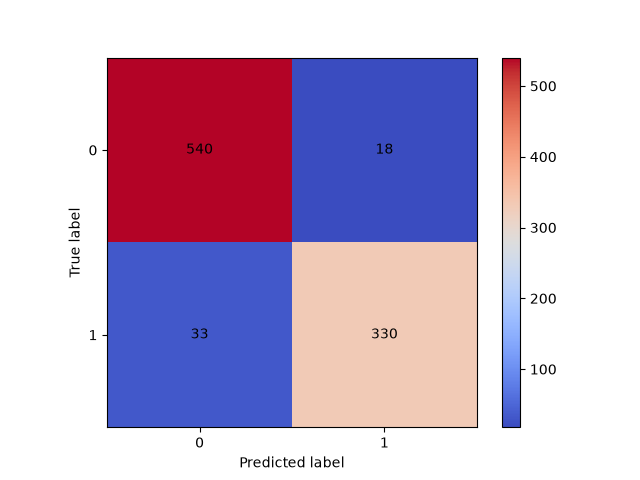
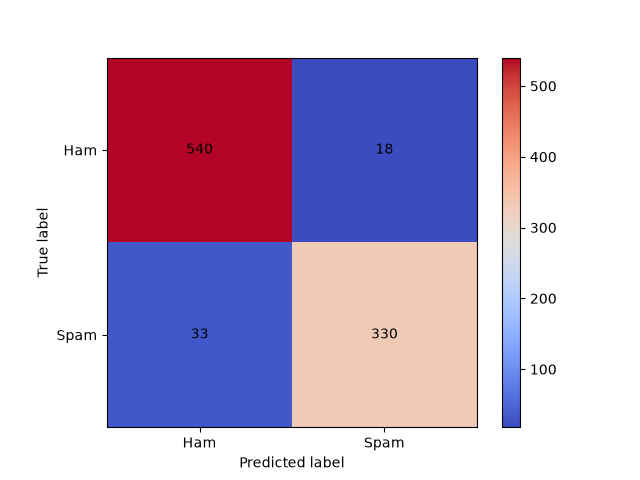
Added display_labels for ConfusionMatrixDisplay

diff --git a/assignments_03/project_03.py b/assignments_03/project_03.py
@@ -308,7 +308,7 @@ model_report(lr_pca, X_test_pca, y_test)
 
 y_pred = rf.predict(X_test)
 cm = confusion_matrix(y_test, y_pred)
-cmd = ConfusionMatrixDisplay(cm)
+cmd = ConfusionMatrixDisplay(cm, display_labels=['Ham', 'Spam'])
 cmd.plot(cmap='coolwarm', text_kw={'color': 'black'})
 plt.savefig('assignments_03/outputs/best_model_confusion_matrix.png')
 plt.close()
